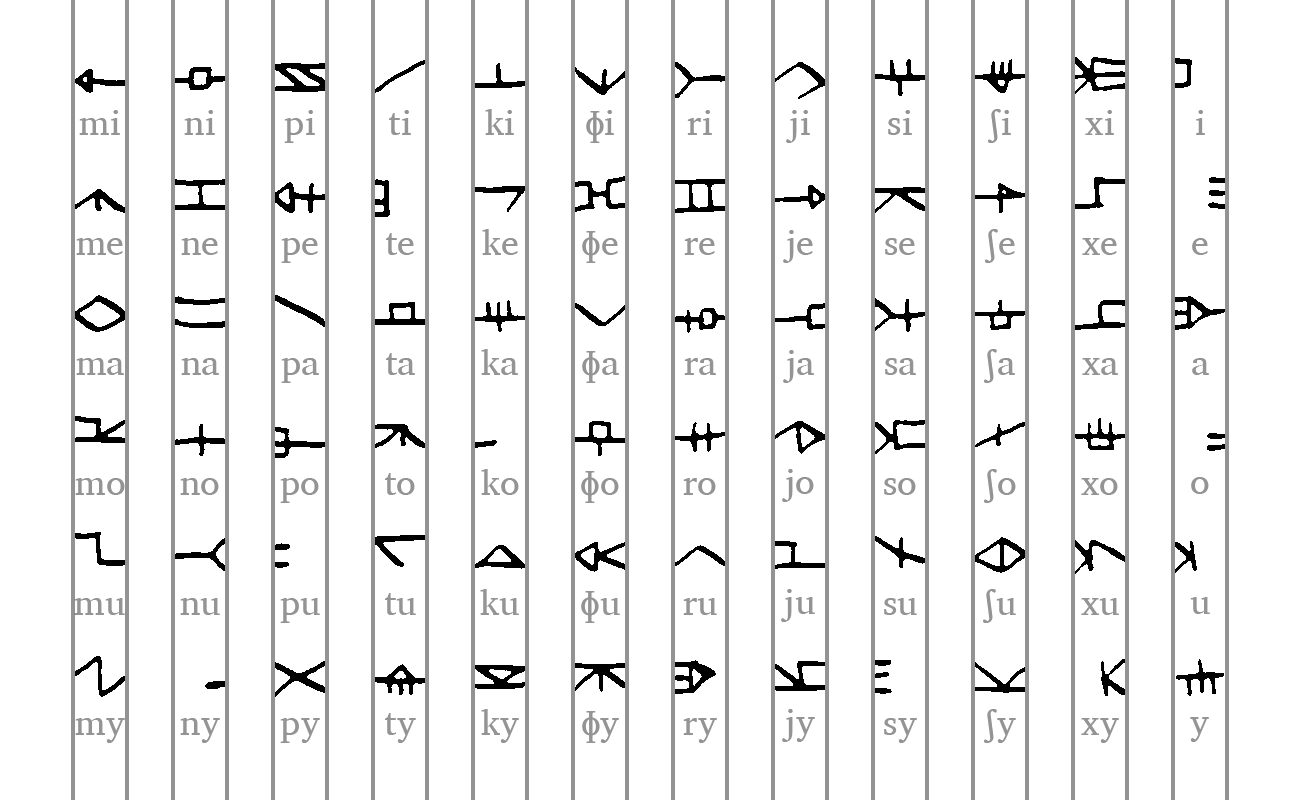
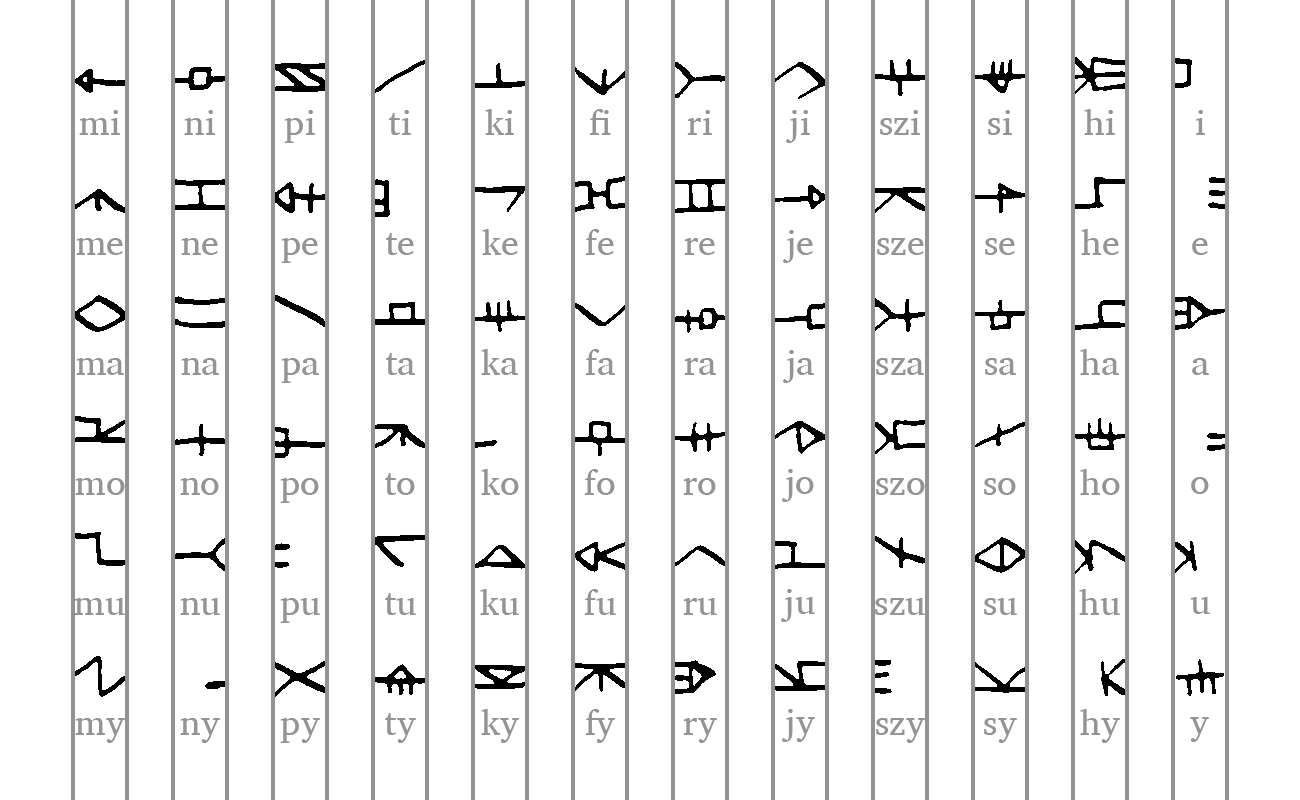
Consistent Täne romanisation, subject to change

diff --git a/Söwita̋néÿ.md b/Söwita̋néÿ.md
@@ -12,7 +12,7 @@ The script is a syllabary with the following properties:
 ![[Söwita̋néÿ signs.png]]
 
 # Example
-Below is a rune poem by an unknown [[Mÿrșo·to]] in 20 BGS, depicting the myth of the three Riders, who after saving the first [[Mÿrșo·to]] from the moon and splitting it in two, rode into the sky to keep a vigilant eye over the [[Mÿrșo·to]] for the rest of time. The little pictograms at the bottom are a representation of what the words mean, working as both a little artistic flourish and also helping to disambiguate the text.
+Below is a rune poem by an unknown [[Mÿrzoto]] in 20 BGS, depicting the myth of the three Riders, who after saving the first [[Mÿrzoto]] from the moon and splitting it in two, rode into the sky to keep a vigilant eye over the [[Mÿrzoto]] for the rest of time. The little pictograms at the bottom are a representation of what the words mean, working as both a little artistic flourish and also helping to disambiguate the text.
 
 A transcription and translation of the text follows.
 
